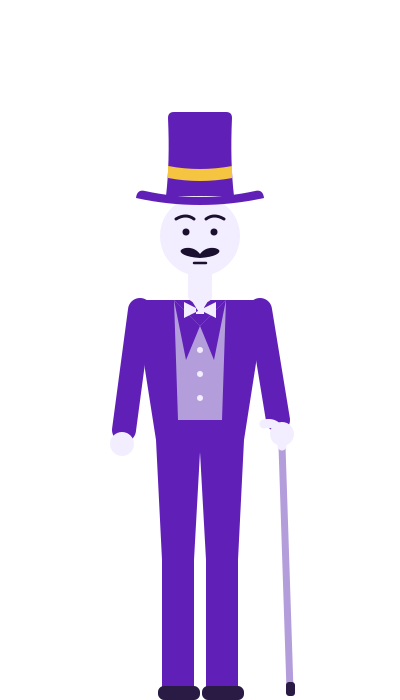
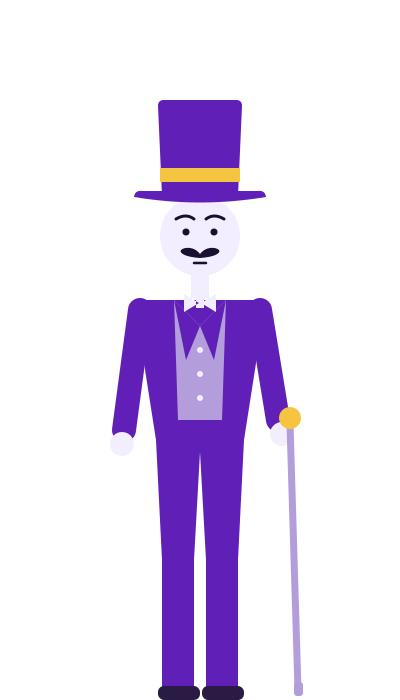
Dandy Man: classic top hat, bow tie on the collar line, gold-knob cane
Claude-Session: https://claude.ai/code/session_01MsLwUh4sHtdYL5twesgV4U

Changed region(s): [[0.33, 0.12, 0.66, 0.3], [0.66, 0.57, 0.78, 1.0], [0.45, 0.42, 0.54, 0.45]]

diff --git a/cast/dandy-man/gen_candidates.py b/cast/dandy-man/gen_candidates.py
@@ -26,15 +26,14 @@ SHADE = "#3E1480"  # darker than primary for trousers/shoes; 60% of the figure s
 
 
 def hat(tilt_deg, tall=True):
-    # Top hat: slightly concave sides, flared top, brim that curls up at the ends. Sits on y=196.
-    top = 112 if tall else 136
-    crown = (f"M166 196 Q170 {top + 50} 168 {top + 6} Q168 {top} 174 {top} "
-             f"L226 {top} Q232 {top} 232 {top + 6} Q230 {top + 50} 234 196 Z")
-    brim = "M136 198 Q137 189 145 191 Q200 203 255 191 Q263 189 264 198 Q200 212 136 198 Z"
+    # Classic top hat: straight crown with a slight flare at the top, flat-ish brim. Sits on y=196.
+    top = 100 if tall else 128
+    crown = f"M162 196 L158 {top + 6} Q158 {top} 164 {top} L236 {top} Q242 {top} 242 {top + 6} L238 196 Z"
+    brim = "M134 197 Q135 190 142 191 L258 191 Q265 190 266 197 Q200 208 134 197 Z"
     return f"""
   <g transform="rotate({tilt_deg} 200 196)">
     <path d="{crown}" fill="{PRIMARY}"/>
-    <path d="M168 178 Q200 184 232 178 L232 166 Q200 172 168 166 Z" fill="{GOLD}"/>
+    <rect x="160" y="168" width="80" height="14" fill="{GOLD}"/>
     <path d="{brim}" fill="{PRIMARY}"/>
   </g>"""
 
@@ -51,7 +50,7 @@ def head(brow="flat"):
   <path d="M206 219 Q214 213 224 219" stroke="{BG}" stroke-width="3" fill="none" stroke-linecap="round"/>
   <path d="M200 254 C194 246 184 247 181 250 C179 253 185 257 200 258 C215 257 221 253 219 250 C216 247 206 246 200 254 Z" fill="{BG}"/>
   <line x1="194" y1="263" x2="206" y2="263" stroke="{BG}" stroke-width="2.5" stroke-linecap="round"/>
-  <rect x="188" y="268" width="24" height="34" rx="6" fill="{TEXT}"/>"""
+  <rect x="191" y="270" width="18" height="28" fill="{TEXT}"/>"""
 
 
 def body(arms="cane", slim=1.0):
@@ -67,8 +66,9 @@ def body(arms="cane", slim=1.0):
     lapels = (
         f"M{200 - 26} 300 L{200 - 14} 360 L200 326 Z M{200 + 26} 300 L{200 + 14} 360 L200 326 Z"
     )
-    collar = f"M190 298 L200 314 L210 298 L210 294 L190 294 Z"
-    cravat = f"M200 310 L184 302 L184 318 Z M200 310 L216 302 L216 318 Z M196 306 L204 306 L204 314 L196 314 Z"
+    collar = ""
+    cravat = (f"M199 303 L184 294 L184 312 Z M201 303 L216 294 L216 312 Z "
+              f"M196 298 L204 298 L204 308 L196 308 Z")
     buttons = "".join(
         f'<circle cx="200" cy="{y}" r="3" fill="{TEXT}"/>' for y in (350, 374, 398)
     )
@@ -84,9 +84,9 @@ def body(arms="cane", slim=1.0):
   <circle cx="{200 - sw - 18}" cy="444" r="12" fill="{TEXT}"/>
   <path d="M{200 + sw} 310 L{200 + sw + 18} 420" stroke="{PRIMARY}" stroke-width="24" stroke-linecap="round" fill="none"/>
   <circle cx="{200 + sw + 22}" cy="434" r="12" fill="{TEXT}"/>
-  <path d="M{200 + sw + 22} 446 L{200 + sw + 30} 690" stroke="{SOFT}" stroke-width="7" stroke-linecap="round" fill="none"/>
-  <path d="M{200 + sw + 22} 446 Q{200 + sw + 22} 420 {200 + sw + 4} 424" stroke="{TEXT}" stroke-width="9" stroke-linecap="round" fill="none"/>
-  <rect x="{200 + sw + 26}" y="682" width="9" height="14" rx="3" fill="{LIFT}"/>"""
+  <path d="M{200 + sw + 30} 424 L{200 + sw + 38} 690" stroke="{SOFT}" stroke-width="7" stroke-linecap="round" fill="none"/>
+  <circle cx="{200 + sw + 30}" cy="418" r="11" fill="{GOLD}"/>
+  <rect x="{200 + sw + 34}" y="682" width="9" height="14" rx="3" fill="{SOFT}"/>"""
     elif arms == "behind":
         arms_svg = f"""
   <path d="M{200 - sw} 310 Q{200 - sw - 30} 380 {200 - 10} 420" stroke="{PRIMARY}" stroke-width="22" stroke-linecap="round" fill="none"/>
